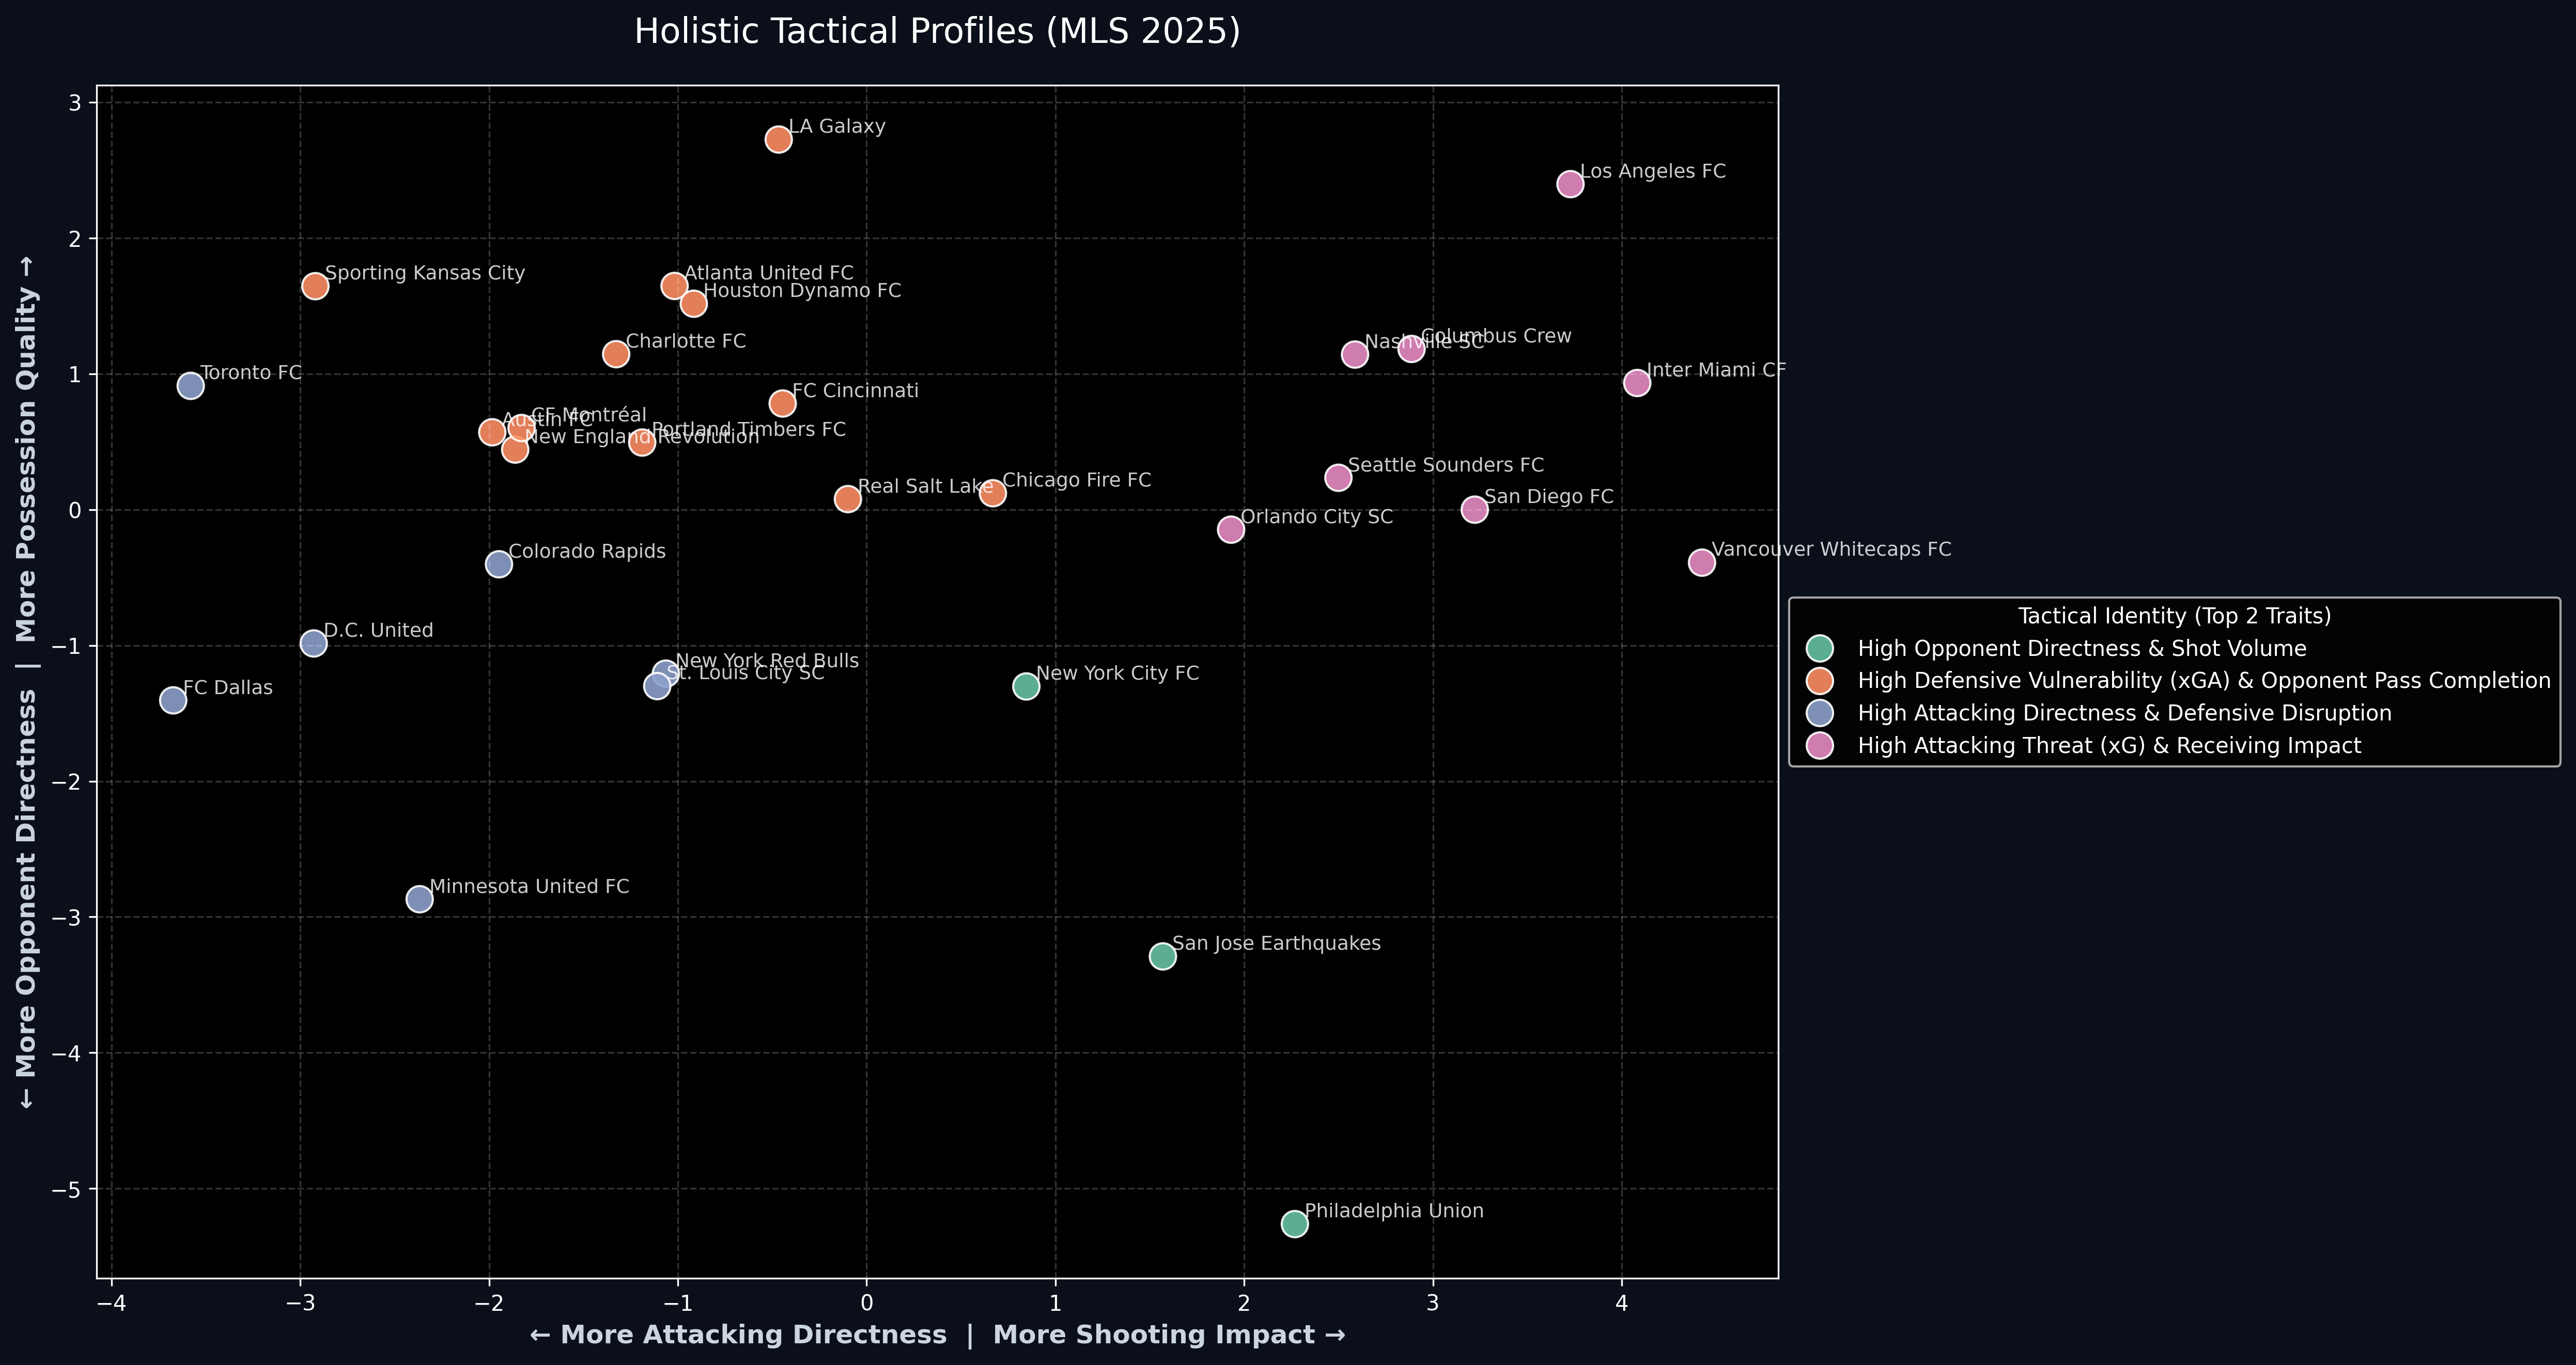
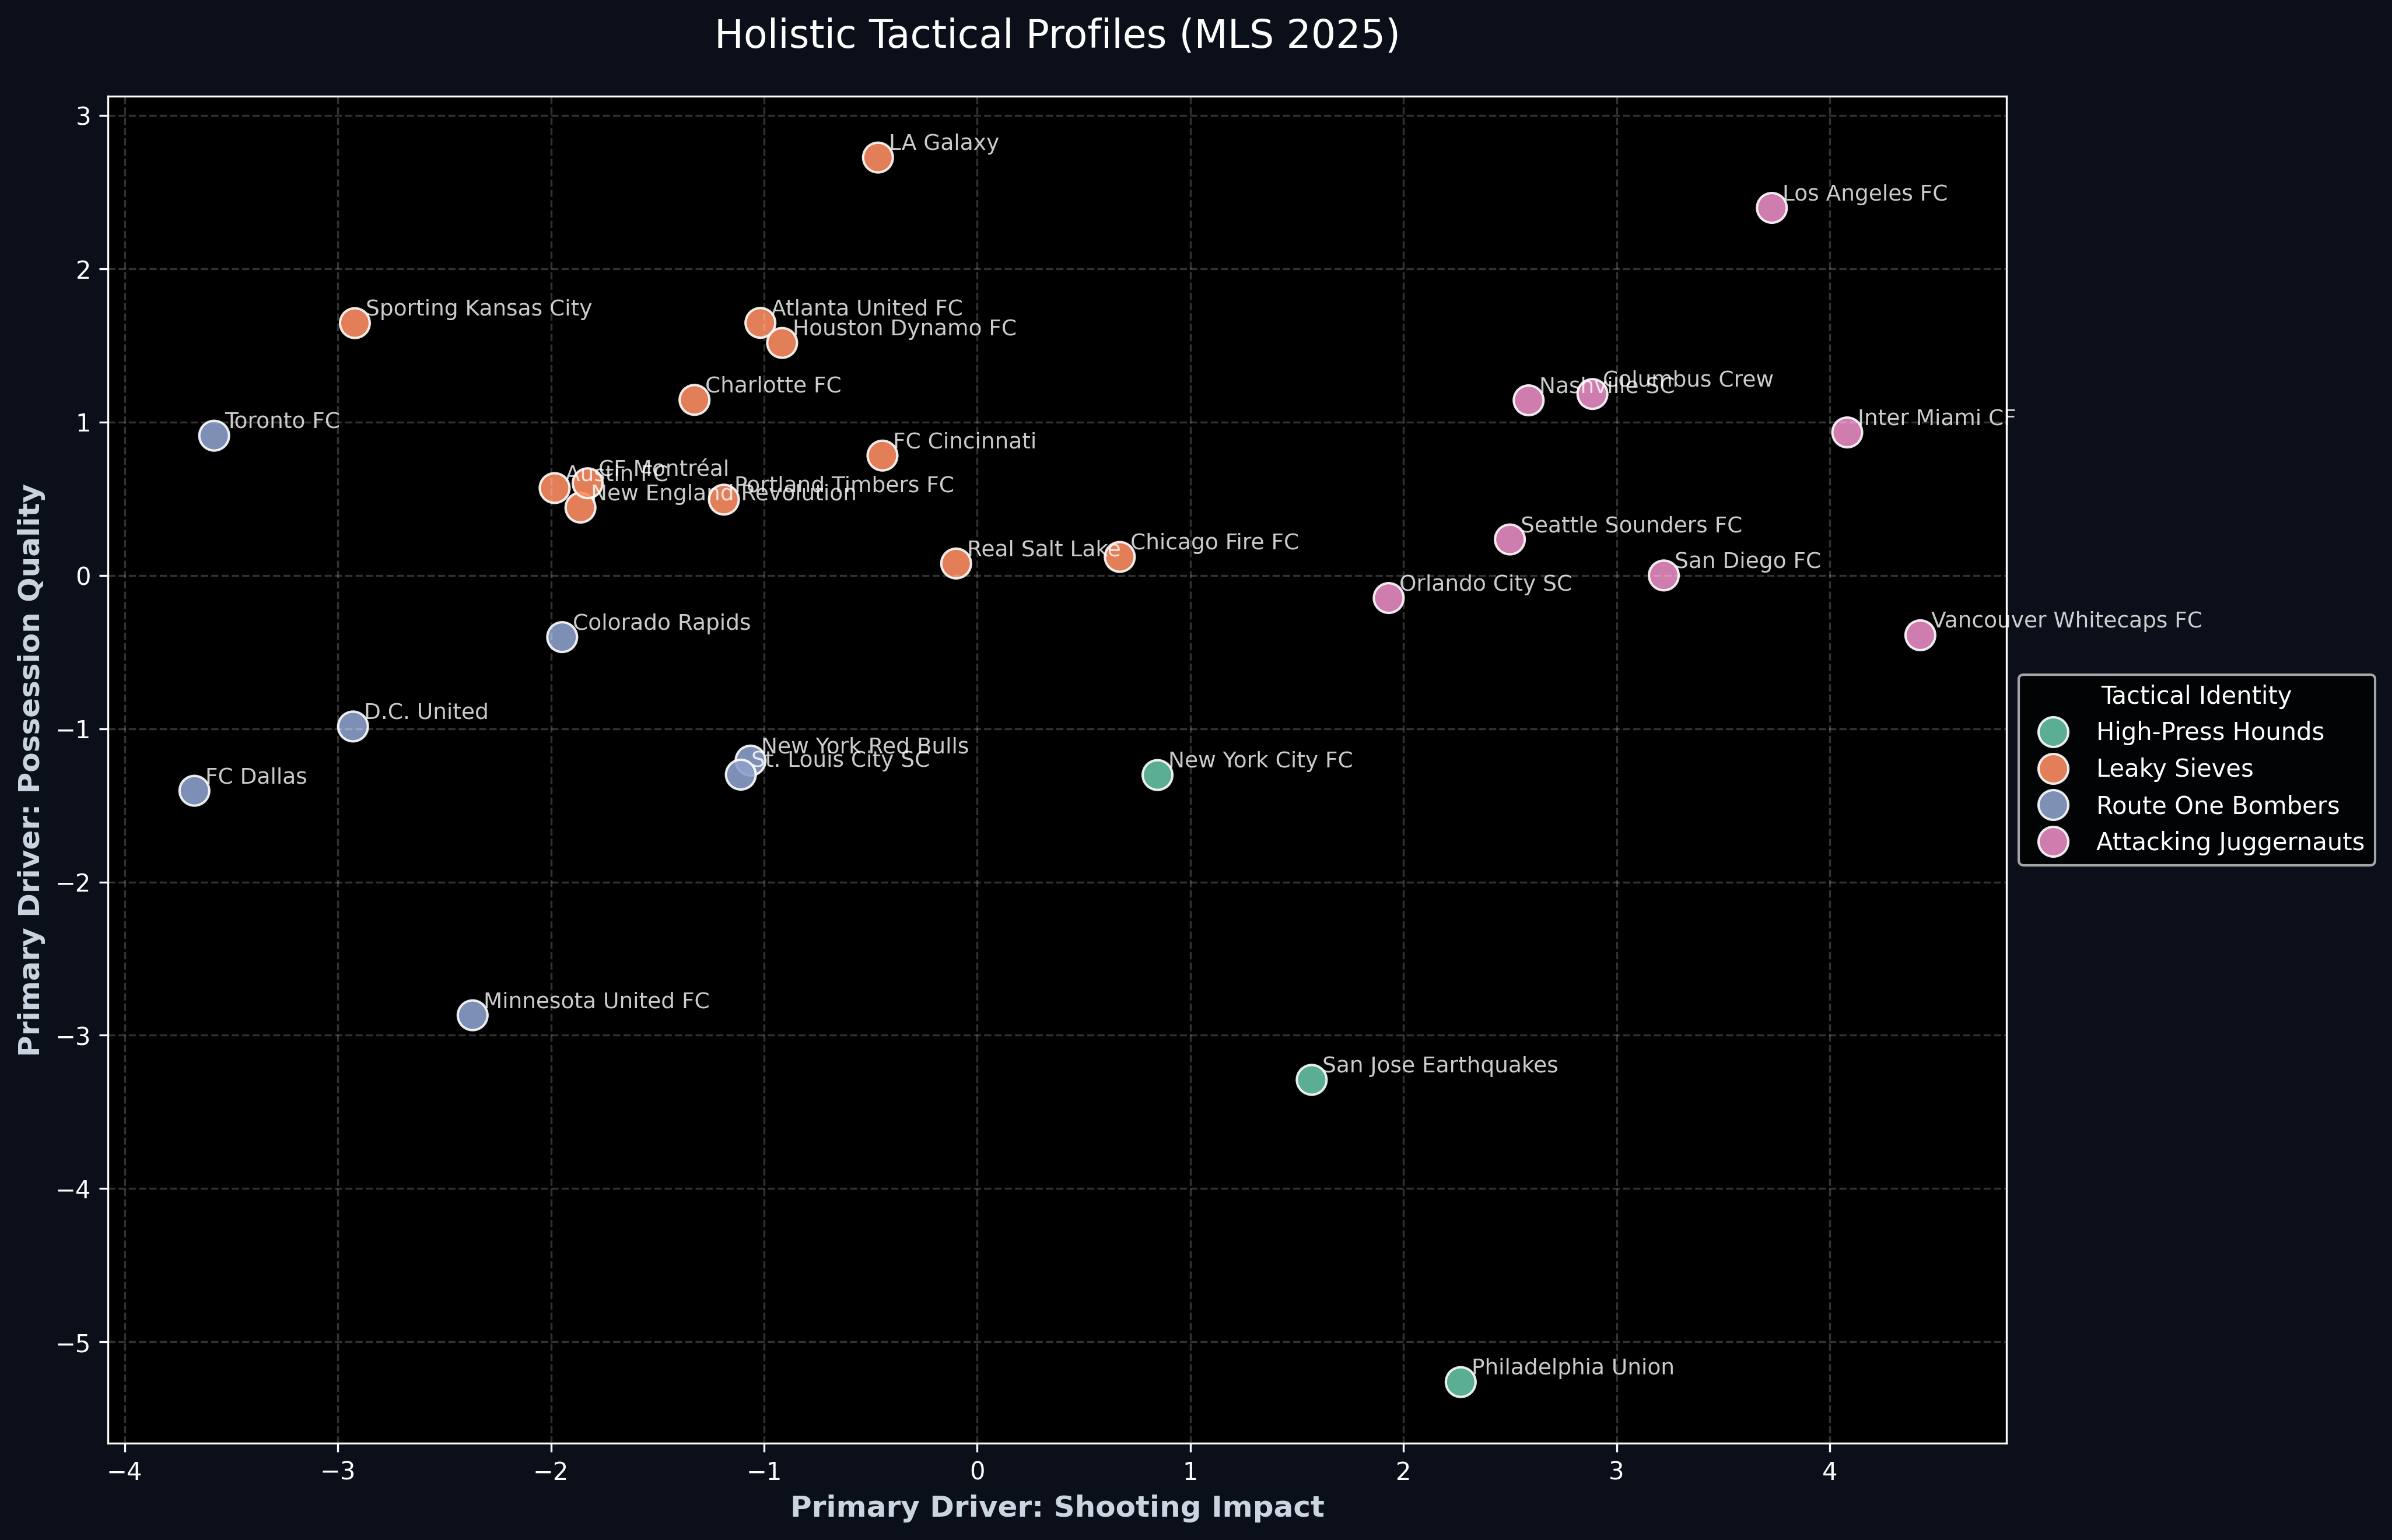
style: use chippy cluster names and single axis drivers

diff --git a/src/visualizer.py b/src/visualizer.py
@@ -26,29 +26,39 @@ def plot_clusters(df_scaled, clusters, team_names, output_path='tactical_cluster
         'avg_vertical_distance_against': 'Opponent Directness'
     }
 
-    # Analyze PCA components to generate descriptive axis names
+    # Chippy, sharp names for clusters based on their dominant defining trait
+    CHIPPY_NAMES = {
+        'passing': 'The Metronomes',
+        'receiving': 'Box Infiltrators',
+        'shooting': 'The Gunslingers',
+        'interrupting': 'The Disruptors',
+        'dribbling': 'Progressive Carriers',
+        'claiming': 'Air Superiority',
+        'xgoals_for': 'Attacking Juggernauts',
+        'xgoals_against': 'Leaky Sieves',
+        'shots_for': 'Volume Shooters',
+        'shots_against': 'Siege Defenders',
+        'attempted_passes_for': 'The Architects',
+        'pass_completion_percentage_for': 'Tiki-Taka Purists',
+        'avg_vertical_distance_for': 'Route One Bombers',
+        'pass_completion_percentage_against': 'Passive Observers',
+        'avg_vertical_distance_against': 'High-Press Hounds'
+    }
+
+    # Analyze PCA components to generate single descriptive axis names
     features = df_scaled.columns
     def get_axis_descs(comp1, comp2):
-        # Axis 1
-        pos1_idx = np.argmax(comp1)
-        neg1_idx = np.argmin(comp1)
+        # Find the absolute strongest driver for each axis
+        idx1 = np.argmax(np.abs(comp1))
         
-        # Axis 2 (Prevent using the exact same metrics as Axis 1)
-        sorted_pos2 = np.argsort(comp2)[::-1]
-        sorted_neg2 = np.argsort(comp2)
+        # Prevent duplicate drivers
+        sorted_idx2 = np.argsort(np.abs(comp2))[::-1]
+        idx2 = sorted_idx2[0] if sorted_idx2[0] != idx1 else sorted_idx2[1]
         
-        pos2_idx = sorted_pos2[0] if sorted_pos2[0] not in [pos1_idx, neg1_idx] else sorted_pos2[1]
-        neg2_idx = sorted_neg2[0] if sorted_neg2[0] not in [pos1_idx, neg1_idx] else sorted_neg2[1]
+        t1 = FEATURE_MAP.get(features[idx1], features[idx1])
+        t2 = FEATURE_MAP.get(features[idx2], features[idx2])
         
-        pos1_t = FEATURE_MAP.get(features[pos1_idx], features[pos1_idx])
-        neg1_t = FEATURE_MAP.get(features[neg1_idx], features[neg1_idx])
-        pos2_t = FEATURE_MAP.get(features[pos2_idx], features[pos2_idx])
-        neg2_t = FEATURE_MAP.get(features[neg2_idx], features[neg2_idx])
-        
-        c1 = f"← More {neg1_t}  |  More {pos1_t} →" if comp1[neg1_idx] < 0 else f"More {pos1_t} →"
-        c2 = f"← More {neg2_t}  |  More {pos2_t} →" if comp2[neg2_idx] < 0 else f"More {pos2_t} →"
-        
-        return c1, c2
+        return f"Primary Driver: {t1}", f"Primary Driver: {t2}"
         
     c1_desc, c2_desc = get_axis_descs(pca.components_[0], pca.components_[1])
 
@@ -60,12 +70,8 @@ def plot_clusters(df_scaled, clusters, team_names, output_path='tactical_cluster
     for c in centroids.index:
         c_stats = centroids.loc[c]
         top1 = c_stats.nlargest(1).index[0]
-        top2 = c_stats.nlargest(2).index[1]
         
-        t1_name = FEATURE_MAP.get(top1, top1)
-        t2_name = FEATURE_MAP.get(top2, top2)
-        
-        name = f"High {t1_name} & {t2_name}"
+        name = CHIPPY_NAMES.get(top1, "The Enigmas")
             
         if list(cluster_names.values()).count(name) > 0:
             name = f"{name} II"
@@ -84,7 +90,7 @@ def plot_clusters(df_scaled, clusters, team_names, output_path='tactical_cluster
     plt.title('Holistic Tactical Profiles (MLS 2025)', fontsize=16, pad=20)
     plt.xlabel(c1_desc, fontsize=12, fontweight='bold', color='#cbd5e1')
     plt.ylabel(c2_desc, fontsize=12, fontweight='bold', color='#cbd5e1')
-    plt.legend(title='Tactical Identity (Top 2 Traits)', loc='center left', bbox_to_anchor=(1, 0.5))
+    plt.legend(title='Tactical Identity', loc='center left', bbox_to_anchor=(1, 0.5))
     plt.grid(True, linestyle='--', alpha=0.2)
     
     plt.savefig(output_path, dpi=300, bbox_inches='tight', facecolor='#0B0F19')